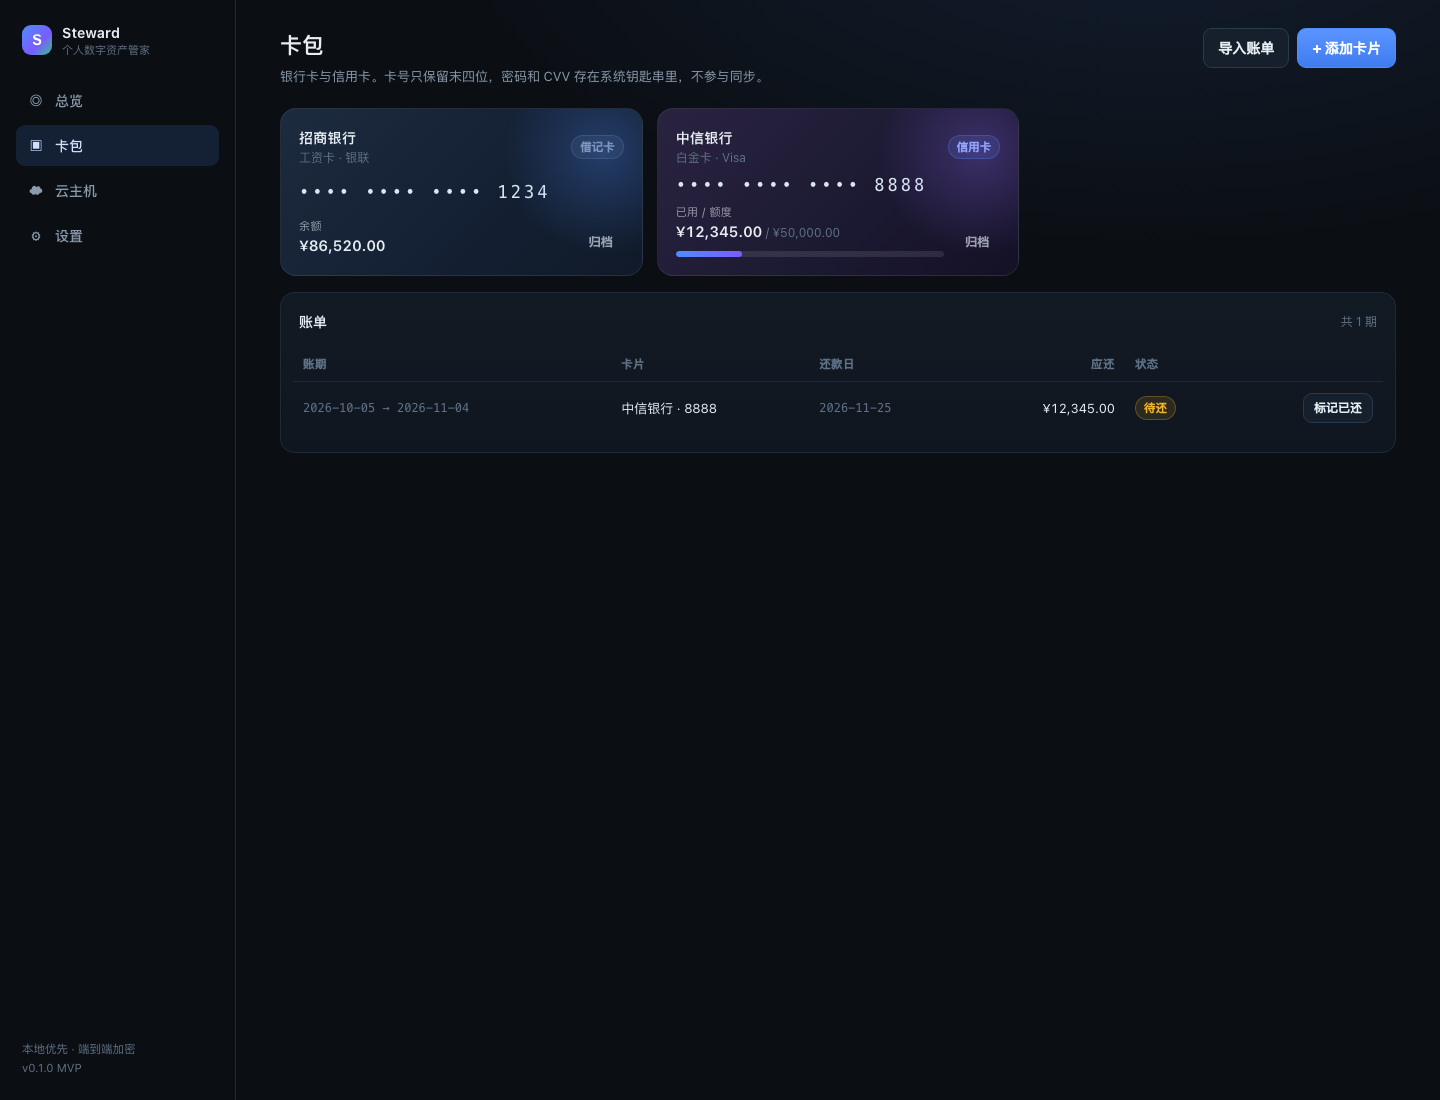
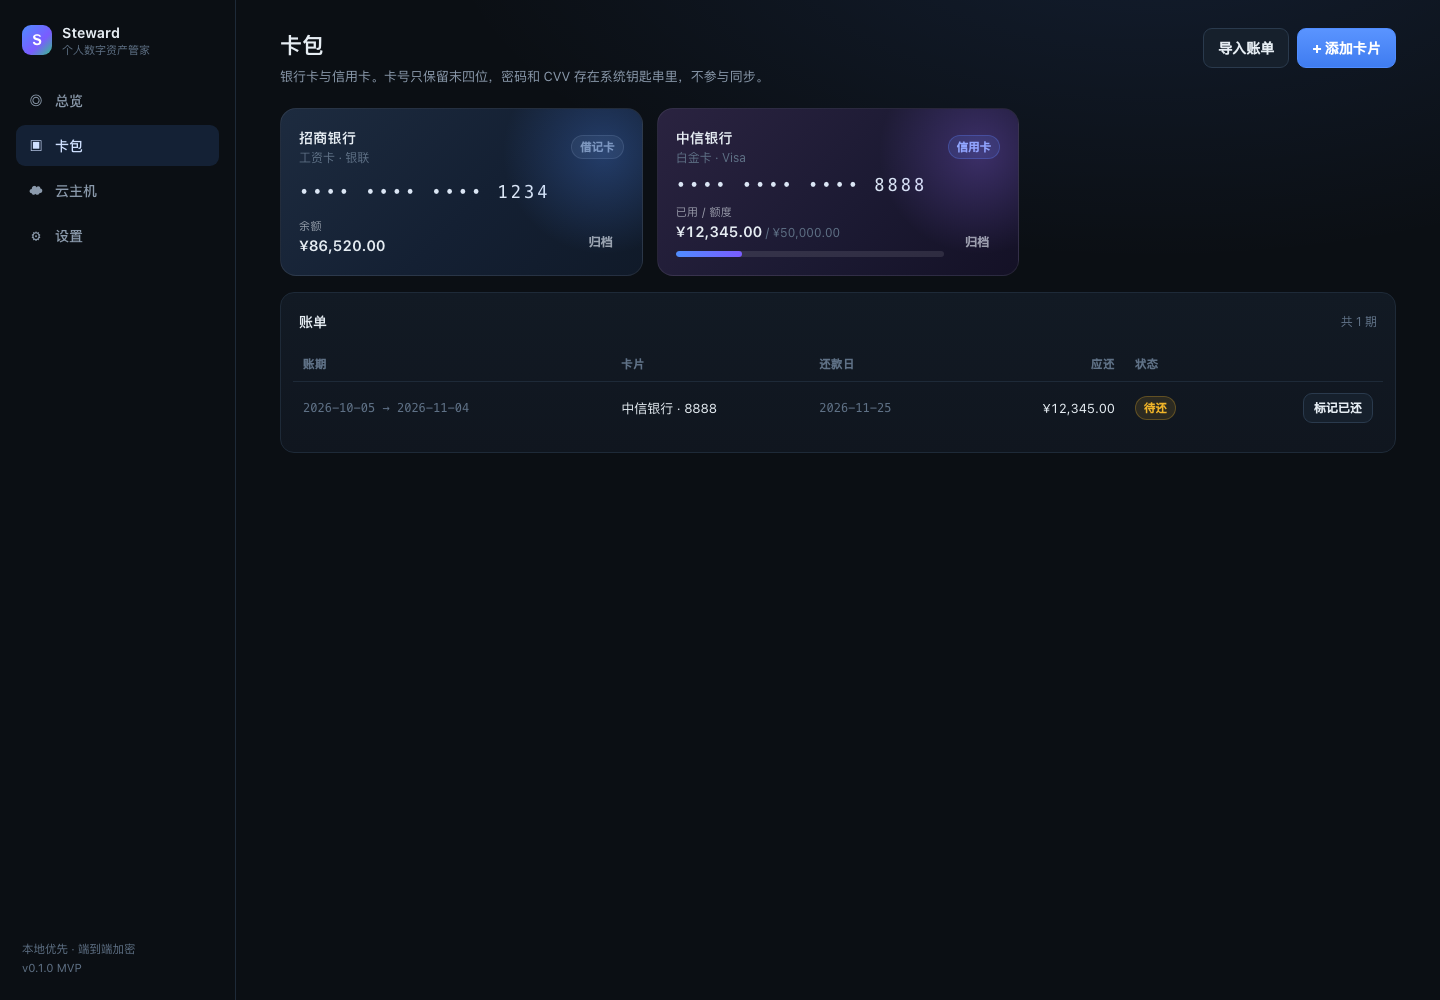
refactor: 同步合并下沉到 core，区分内容版本与设备版本
- 新增 compareContentVersion：LWW 只比较 (updatedAt, rev)，避免两台设备因密文随机 nonce 互相回推
- performSync 从 app 移入 @steward/core，补齐双设备往返测试
- 服务端同样按内容版本拒绝重复写入
- 移除未使用的 opener 插件，收敛 Tauri 权限
- 更新文档与界面截图

diff --git a/services/sync/test/merge.test.ts b/services/sync/test/merge.test.ts
@@ -1,0 +1,161 @@
+import { afterAll, beforeAll, describe, expect, it } from 'vitest';
+import type { FastifyInstance } from 'fastify';
+import {
+  deriveSyncKey,
+  generateSalt,
+  performSync,
+  toStoredKdfConfig,
+  type Card,
+  type CloudAccount,
+  type Statement,
+} from '@steward/core';
+import { createAppWithMemoryDb } from '../src/app.js';
+
+/**
+ * `performSync` 是「一次完整往返」的领域层实现，也是 App 真正调用的入口。
+ * 这里用两台设备的视角跑一遍：首次上传、首次下载、并发修改后的覆盖。
+ */
+
+const ADMIN = 'admin_merge_token_1234567890';
+const KDF_PARAMS = { N: 4096, r: 8, p: 1 };
+
+let app: FastifyInstance;
+let serverUrl: string;
+let vaultId: string;
+let key: Uint8Array;
+let deviceA: { deviceId: string; deviceToken: string };
+let deviceB: { deviceId: string; deviceToken: string };
+
+const card: Card = {
+  id: 'card_sync_0001',
+  kind: 'credit',
+  issuer: '中信银行',
+  network: 'visa',
+  nickname: '白金卡',
+  last4: '8888',
+  currency: 'CNY',
+  creditLimitMinor: 5000000,
+  updatedAt: '2026-11-01T10:00:00.000Z',
+};
+
+const statement: Statement = {
+  id: 'stmt_sync_0001',
+  cardId: card.id,
+  periodStart: '2026-10-05',
+  periodEnd: '2026-11-04',
+  dueDate: '2026-11-25',
+  currency: 'CNY',
+  totalAmountMinor: 1234500,
+  isPaid: false,
+  lines: [
+    { id: 'line_1', postedAt: '2026-10-08', merchant: '星巴克', amountMinor: 3800, currency: 'CNY', direction: 'debit' },
+  ],
+  updatedAt: '2026-11-05T10:00:00.000Z',
+};
+
+const account: CloudAccount = {
+  id: 'cloud_sync_0001',
+  provider: 'aliyun',
+  alias: '阿里云主账号',
+  secretRef: 'cloud:cloud_sync_0001',
+  regions: ['cn-hangzhou'],
+  updatedAt: '2026-11-01T10:00:00.000Z',
+};
+
+async function pair(name: string): Promise<{ deviceId: string; deviceToken: string }> {
+  const issued = await app.inject({
+    method: 'POST',
+    url: `/v1/vaults/${vaultId}/pairing-tokens`,
+    headers: { authorization: `Bearer ${ADMIN}` },
+  });
+  const token = (JSON.parse(issued.body) as { pairingToken: string }).pairingToken;
+  const response = await app.inject({
+    method: 'POST',
+    url: `/v1/vaults/${vaultId}/devices`,
+    headers: { authorization: `Bearer ${token}` },
+    payload: { deviceName: name, platform: 'test' },
+  });
+  return JSON.parse(response.body) as { deviceId: string; deviceToken: string };
+}
+
+function sync(device: { deviceId: string; deviceToken: string }, snapshot: {
+  cards?: Card[];
+  statements?: Statement[];
+  cloudAccounts?: CloudAccount[];
+}) {
+  return performSync({
+    serverUrl,
+    vaultId,
+    deviceId: device.deviceId,
+    deviceToken: device.deviceToken,
+    key,
+    cards: snapshot.cards ?? [],
+    statements: snapshot.statements ?? [],
+    cloudAccounts: snapshot.cloudAccounts ?? [],
+  });
+}
+
+beforeAll(async () => {
+  app = createAppWithMemoryDb(ADMIN);
+  await app.listen({ port: 0, host: '127.0.0.1' });
+  const address = app.server.address();
+  if (!address || typeof address === 'string') throw new Error('无法获取测试端口');
+  serverUrl = `http://127.0.0.1:${address.port}`;
+
+  const salt = generateSalt();
+  const created = await app.inject({
+    method: 'POST',
+    url: '/v1/vaults',
+    headers: { authorization: `Bearer ${ADMIN}` },
+    payload: { kdf: toStoredKdfConfig(salt, KDF_PARAMS) },
+  });
+  vaultId = (JSON.parse(created.body) as { vaultId: string }).vaultId;
+  key = await deriveSyncKey('a very long passphrase for sync', salt, KDF_PARAMS);
+  deviceA = await pair('设备 A');
+  deviceB = await pair('设备 B');
+});
+
+afterAll(async () => {
+  await app.close();
+});
+
+describe('performSync 完整往返', () => {
+  it('设备 A 首次上传，设备 B 首次下载得到同样数据', async () => {
+    const uploaded = await sync(deviceA, { cards: [card], statements: [statement], cloudAccounts: [account] });
+    expect(uploaded.cards).toHaveLength(1);
+    expect(uploaded.statements[0]?.lines).toHaveLength(1);
+
+    const downloaded = await sync(deviceB, {});
+    expect(downloaded.stats.pulled).toBe(3);
+    expect(downloaded.cards[0]?.issuer).toBe('中信银行');
+    expect(downloaded.cloudAccounts[0]?.alias).toBe('阿里云主账号');
+  });
+
+  it('同步是幂等的：没有变化时不会重复推送', async () => {
+    const again = await sync(deviceB, { cards: [card], statements: [statement], cloudAccounts: [account] });
+    expect(again.stats.pushed).toBe(0);
+    expect(again.stats.overwritten).toBe(0);
+    expect(again.cards).toHaveLength(1);
+  });
+
+  it('设备 B 改名后，设备 A 同步会拿到新版本并计一次覆盖', async () => {
+    const renamed: Card = { ...card, nickname: 'B 改的名字', updatedAt: '2026-11-02T10:00:00.000Z' };
+    await sync(deviceB, { cards: [renamed] });
+
+    const aResult = await sync(deviceA, { cards: [card] });
+    expect(aResult.cards[0]?.nickname).toBe('B 改的名字');
+    expect(aResult.stats.overwritten).toBeGreaterThanOrEqual(1);
+  });
+
+  it('设备 A 用旧数据回推不会覆盖新版本', async () => {
+    const stale = await sync(deviceA, { cards: [card] });
+    expect(stale.cards[0]?.nickname).toBe('B 改的名字');
+  });
+
+  it('不同集合互不干扰，删除标记不会复活数据', async () => {
+    const result = await sync(deviceA, { cards: [card], statements: [statement], cloudAccounts: [account] });
+    expect(result.cards).toHaveLength(1);
+    expect(result.statements).toHaveLength(1);
+    expect(result.cloudAccounts).toHaveLength(1);
+  });
+});

diff --git a/packages/core/src/sync/merge.ts b/packages/core/src/sync/merge.ts
@@ -1,16 +1,9 @@
-import {
-  SyncClient,
-  compareVersions,
-  openRecord,
-  sealRecord,
-  type Card,
-  type CloudAccount,
-  type EncryptedRecord,
-  type Statement,
-} from '@steward/core';
+import { SyncClient } from './client.js';
+import { compareContentVersion, openRecord, sealRecord, type EncryptedRecord } from './records.js';
+import type { Card, CloudAccount, Statement } from '../types.js';
 
 /**
- * 端到端加密同步的一次完整往返。
+ * 端到端加密同步的一次完整往返（领域层实现，无 UI 依赖）。
  *
  * 流程：拉全量 → 按 (updatedAt, rev, deviceId) 逐条 LWW 合并 → 把合并后的
  * 结果推回服务器。数据量是「个人资产」级别（几百到几千条），全量拉取足够快，
@@ -98,15 +91,14 @@ export async function performSync(options: SyncOptions): Promise<SyncResult> {
     const localRecord = local.get(key) ?? null;
 
     if (remoteRecord && localRecord) {
-      const remoteWins = compareVersions(remoteRecord, localRecord) > 0;
-      if (remoteWins) {
+      const comparison = compareContentVersion(localRecord, remoteRecord);
+      if (comparison <= 0) {
+        // 远端更新或版本相同：保留远端，避免两台设备互相回推
         winners.push(remoteRecord);
-        // 本地这次修改被远端覆盖，计数后交给 UI 提示
-        if (remoteRecord.sealed.ciphertext !== localRecord.sealed.ciphertext) overwritten += 1;
+        if (localRecord.updatedAt !== remoteRecord.updatedAt) overwritten += 1;
       } else {
         winners.push(localRecord);
-        // 本地的版本更新，推回服务器
-        if (remoteRecord.sealed.ciphertext !== localRecord.sealed.ciphertext) toPush.push(localRecord);
+        toPush.push(localRecord);
       }
     } else if (remoteRecord) {
       winners.push(remoteRecord);

diff --git a/packages/core/src/sync/records.ts b/packages/core/src/sync/records.ts
@@ -35,12 +35,27 @@ export interface Conflict<T> {
   reason: 'remote-newer' | 'local-newer' | 'tie-local';
 }
 
-/** 版本比较：先看时间，再看 rev，最后用 deviceId 打破平局（保证各端结果一致）。 */
-export function compareVersions(a: EncryptedRecord, b: EncryptedRecord): number {
+/**
+ * 内容版本比较：只看 (updatedAt, rev)，不看是哪个设备写的。
+ *
+ * 因为密文带随机 nonce，同一份数据在不同设备上加密出来必然不同，
+ * 所以「设备 ID」不能用来判断内容是否变化 —— 那会让两台设备无限互推。
+ */
+export function compareContentVersion(a: EncryptedRecord, b: EncryptedRecord): number {
   const at = Date.parse(a.updatedAt);
   const bt = Date.parse(b.updatedAt);
   if (at !== bt) return at < bt ? -1 : 1;
   if (a.rev !== b.rev) return a.rev < b.rev ? -1 : 1;
+  return 0;
+}
+
+/**
+ * 全序比较：在内容版本之上用 deviceId 打破平局。
+ * 用于需要「各端排序结果完全一致」的场景（例如服务端拒绝回退）。
+ */
+export function compareVersions(a: EncryptedRecord, b: EncryptedRecord): number {
+  const content = compareContentVersion(a, b);
+  if (content !== 0) return content;
   if (a.deviceId === b.deviceId) return 0;
   return a.deviceId < b.deviceId ? -1 : 1;
 }

diff --git a/services/sync/src/app.ts b/services/sync/src/app.ts
@@ -1,6 +1,6 @@
 import Fastify, { type FastifyError, type FastifyInstance, type FastifyRequest } from 'fastify';
 import type { DatabaseSync } from 'node:sqlite';
-import { compareVersions, type EncryptedRecord } from '@steward/core';
+import { compareContentVersion, type EncryptedRecord } from '@steward/core';
 import { bearerToken, hashToken, newToken, PAIRING_TOKEN_TTL_MS, safeEqualHex } from './auth.js';
 import { openDatabase } from './db.js';
 
@@ -213,8 +213,8 @@ export function buildApp(options: AppOptions): FastifyInstance {
           .prepare('SELECT * FROM records WHERE vault_id = ? AND collection = ? AND id = ?')
           .get(vaultId, record.collection, record.id) as RecordRow | undefined;
 
-        if (existing && compareVersions(toWireRecord(existing), record) >= 0) {
-          // 服务器已有的版本更新或相同，保持幂等，不推进 seq
+        if (existing && compareContentVersion(toWireRecord(existing), record) >= 0) {
+          // 服务器已有的内容版本更新或相同，保持幂等，不推进 seq
           continue;
         }
         const seqRow = db.prepare('SELECT cursor FROM vaults WHERE id = ?').get(vaultId) as { cursor: number } | undefined;

diff --git a/apps/app/src/data/store.ts b/apps/app/src/data/store.ts
@@ -7,6 +7,7 @@ import {
   newPrefixedId,
   pairDevice,
   parseStatementCsv,
+  performSync,
   toMinorUnits,
   type StoredKdfConfig,
   type ImportIssue,
@@ -24,7 +25,6 @@ import {
 } from '@steward/core';
 import { createSeedData } from './seed';
 import { deleteSecret, getSecret, setSecret } from './secrets';
-import { performSync } from './sync';
 
 export interface NewCardInput {
   kind: CardKind;
@@ -164,7 +164,7 @@ export const useAppStore = create<AppState>()(
           return { imported: 0, issues: result.issues, statement: null, meta: result.meta };
         }
 
-        const lines: StatementLine[] = result.lines.map((line, index) => ({
+        const lines: StatementLine[] = result.lines.map((line) => ({
           id: newPrefixedId('line'),
           postedAt: line.postedAt,
           merchant: line.merchant,
@@ -172,8 +172,6 @@ export const useAppStore = create<AppState>()(
           currency: line.currency,
           direction: line.direction,
           ...(line.note ? { note: line.note } : {}),
-          // 保留源文件顺序，便于对账
-          ...(index === -1 ? {} : {}),
         }));
 
         const dates = lines.map((l) => l.postedAt).sort();

diff --git a/packages/core/test/sync.test.ts b/packages/core/test/sync.test.ts
@@ -1,6 +1,7 @@
 import { describe, expect, it } from 'vitest';
 import {
   MemoryRecordStore,
+  compareContentVersion,
   compareVersions,
   mergeRecords,
   sealRecord,
@@ -93,6 +94,15 @@ describe('同步记录', () => {
     const b = record({ deviceId: 'device_b' });
     expect(compareVersions(a, b)).toBeLessThan(0);
     expect(compareVersions(b, a)).toBeGreaterThan(0);
+  });
+
+  it('内容版本比较忽略设备差异（防止两台设备无限互推）', () => {
+    const a = record({ deviceId: 'device_a' });
+    const b = record({ deviceId: 'device_b' });
+    expect(compareContentVersion(a, b)).toBe(0);
+    expect(compareVersions(a, b)).not.toBe(0);
+    expect(compareContentVersion(record({ updatedAt: '2026-11-02T00:00:00.000Z' }), a)).toBeGreaterThan(0);
+    expect(compareContentVersion(record({ rev: 5 }), a)).toBeGreaterThan(0);
   });
 
   it('合并时以较新版本为准，并标记冲突', () => {

diff --git a/apps/app/src/data/secrets.ts b/apps/app/src/data/secrets.ts
@@ -56,10 +56,3 @@ export async function deleteSecret(key: string): Promise<void> {
   }
   window.localStorage.removeItem(PREFIX + key);
 }
-
-/** 演示环境下的占位凭据，只让 Mock 适配器有值可用。 */
-export async function ensureDemoSecret(ref: string): Promise<void> {
-  const existing = await getSecret(ref);
-  if (existing) return;
-  await setSecret(ref, JSON.stringify({ accessKeyId: `demo-${ref}`, accessKeySecret: 'demo-secret' }));
-}

diff --git a/packages/core/src/index.ts b/packages/core/src/index.ts
@@ -16,6 +16,7 @@ export * from './crypto/vault.js';
 
 export * from './sync/records.js';
 export * from './sync/client.js';
+export * from './sync/merge.js';
 
 export * from './bills/csv.js';
 

diff --git a/apps/app/src-tauri/src/lib.rs b/apps/app/src-tauri/src/lib.rs
@@ -79,7 +79,6 @@ fn app_info() -> AppInfo {
 #[cfg_attr(mobile, tauri::mobile_entry_point)]
 pub fn run() {
     tauri::Builder::default()
-        .plugin(tauri_plugin_opener::init())
         .invoke_handler(tauri::generate_handler![
             secret_set,
             secret_get,

diff --git a/README.md b/README.md
@@ -26,7 +26,7 @@
 | 卡包：增删卡、额度/余额、账单列表、标记已还 | ✅ 可用 |
 | 银行账单 CSV 导入（多格式、容错、逐行报错） | ✅ 可用，52 个单测覆盖 |
 | 多云主机列表 / 开关机 / 成本汇总 | ✅ 界面与数据流已通，**适配器为 Mock** |
-| 端到端加密同步（自建服务器、设备配对、LWW 合并） | ✅ 协议与服务端已完成并测试 |
+| 端到端加密同步（自建服务器、设备配对、LWW 合并） | ✅ 协议与服务端已完成，30+ 单测 |
 | 真实云厂商 SDK（阿里云/腾讯云/AWS） | ⛔ 未接入，见路线图 |
 | 智能家居（Home Assistant / Matter） | ⛔ 数据模型已预留，未接入 |
 
@@ -74,7 +74,7 @@ node services/sync/dist/main.js init   # 建仓库，输出 Vault ID + 一次性
 ## 常用命令
 
 ```bash
-pnpm test          # 全部单测（core 52 个 + sync 21 个）
+pnpm test          # 全部单测（core 53 个 + sync 26 个）
 pnpm typecheck     # 全仓类型检查
 pnpm build         # 构建 core + 前端产物
 pnpm dev           # 前端开发服务器
